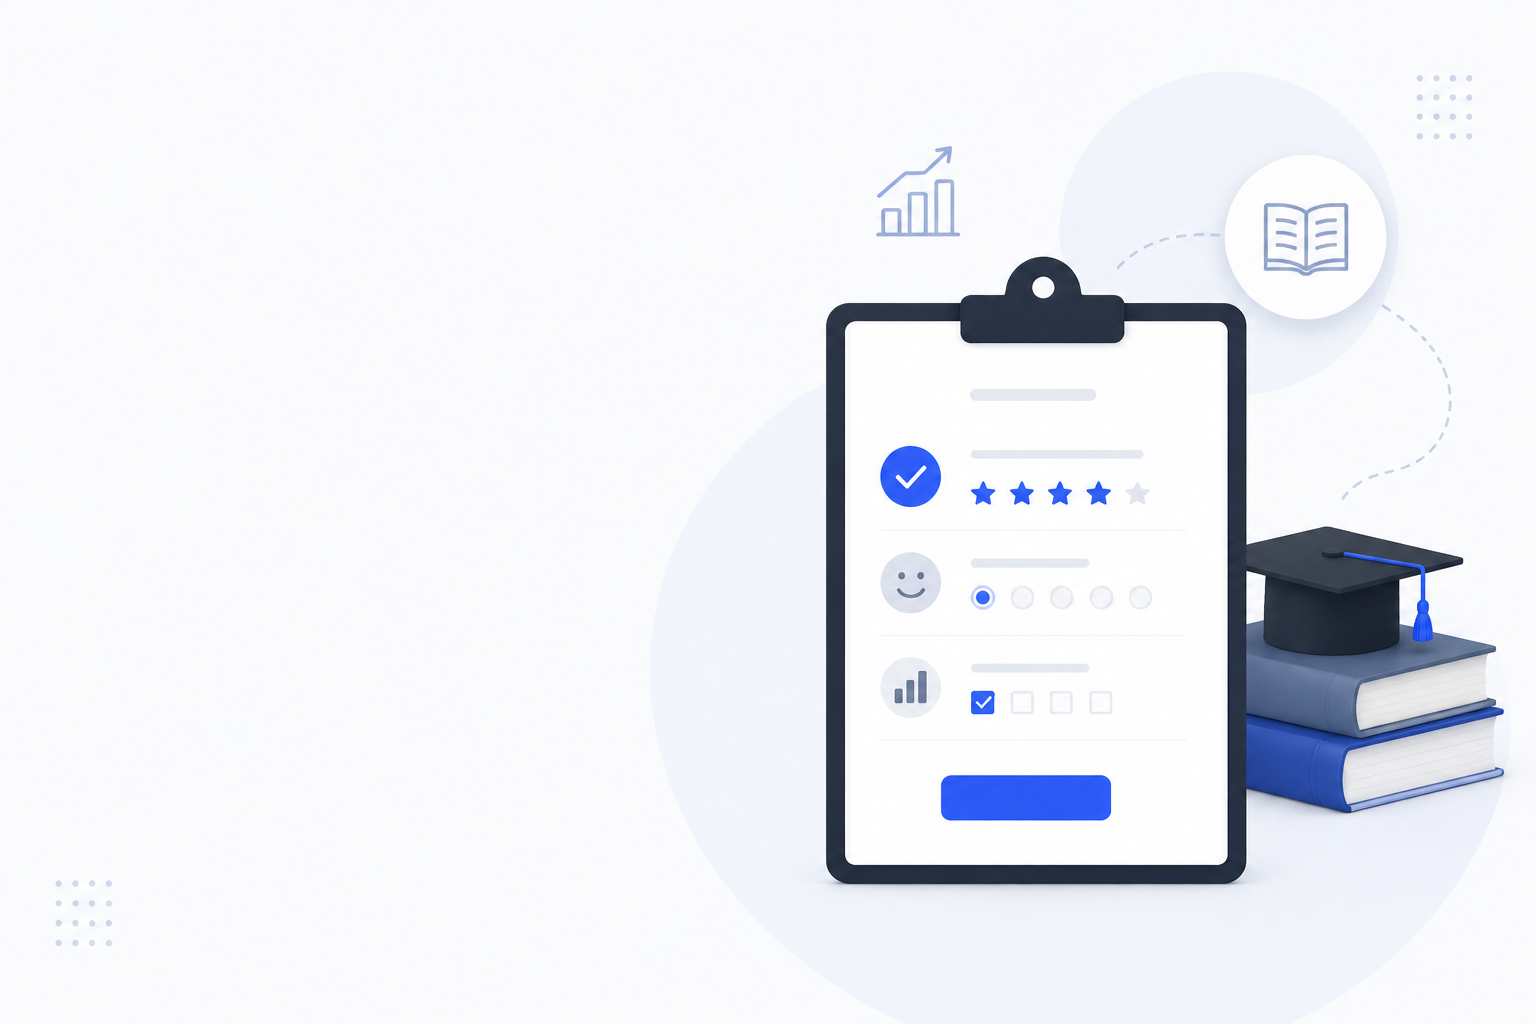
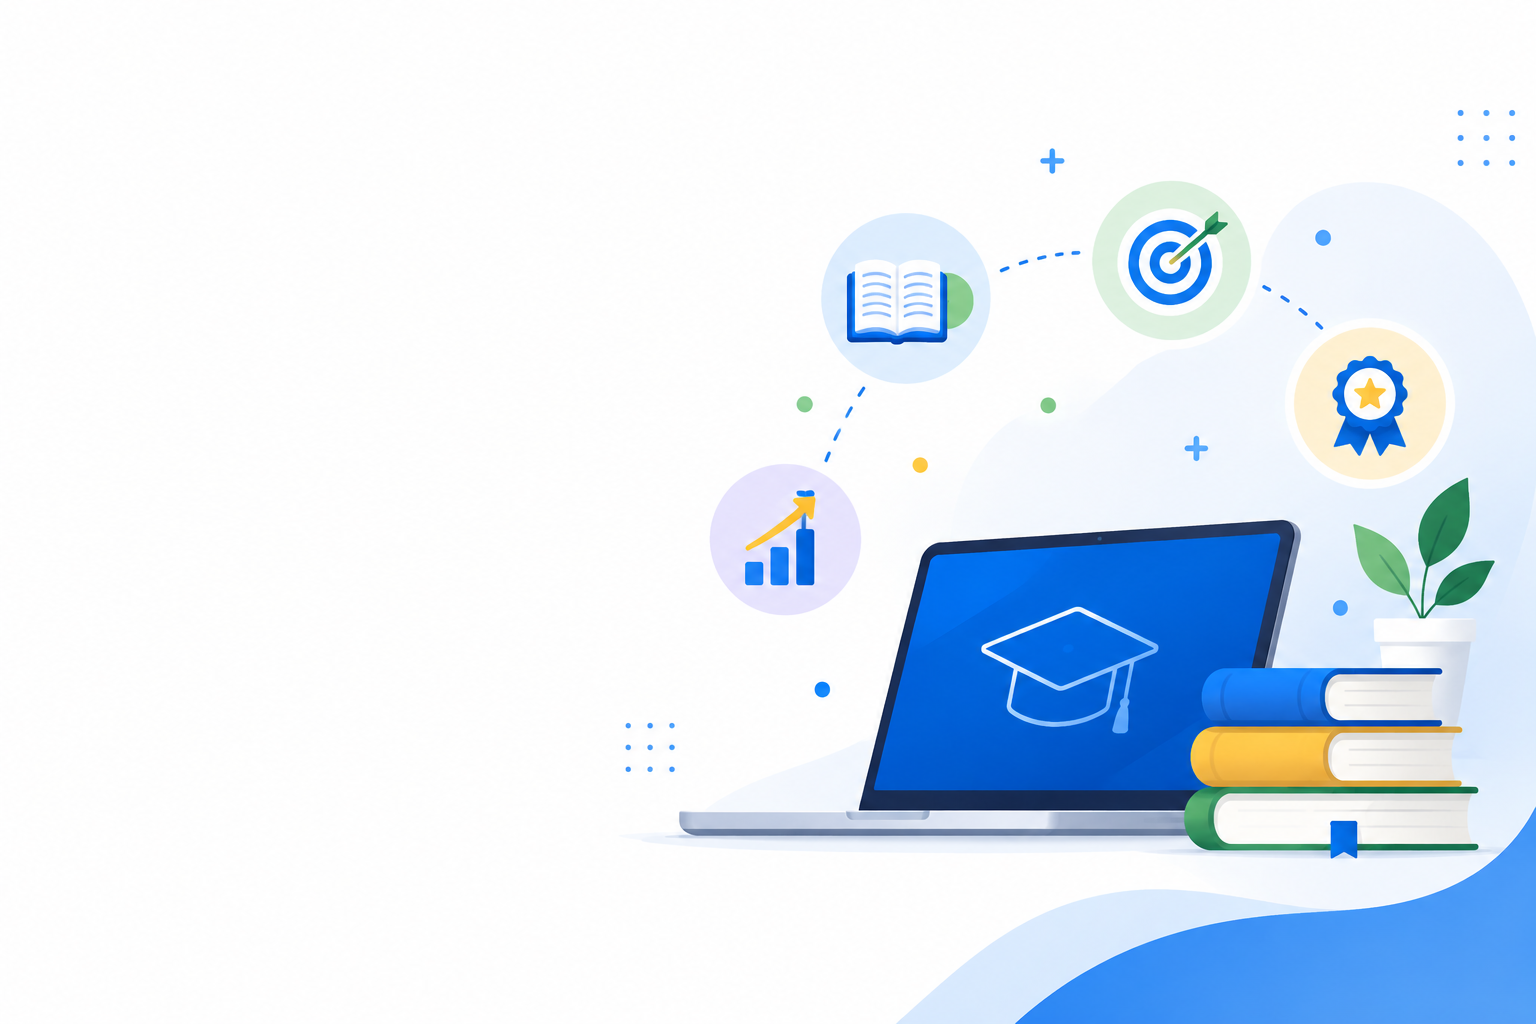
feat(login): giriş ekranı görselini yenile ve her boyutta zeminle kaynaştır
Yeni arka plan görseli eklendi. .login-page artık contain + right center
ile görseli kırpmadan/gerdirmeden sağa yaslıyor; sol boşluk görselin beyaz
zemini (#fefefe) ile dikişsiz kaynaşıyor, kart bu boşlukta duruyor.

diff --git a/frontend/src/styles/login.css b/frontend/src/styles/login.css
@@ -1,7 +1,9 @@
 /*
-  Giriş ekranının stilleri. Tam ekran arka plan, sol-orta hizalı kart,
-  yuvarlatılmış köşeler, belirgin gölge ve görselden alınan renk paletini
-  içerir. Yalnızca sunum (görsel) sorumluluğundadır.
+  Giriş ekranının stilleri. Arka plan görseli kırpılmadan, oranı korunarak
+  (contain) sağa yaslı gösterilir; kalan sol boşluk görselin beyaz zemin
+  rengiyle (#fefefe) dikişsiz kaynaşır ve giriş kartı bu sol boşlukta durur.
+  Ayrıca yuvarlatılmış köşeler, belirgin gölge ve görselden alınan renk
+  paletini içerir. Yalnızca sunum (görsel) sorumluluğundadır.
 */
 
 :root {
@@ -25,15 +27,18 @@ body {
   color: var(--renk-lacivert);
 }
 
-/* Sayfa: arka plan görseli tam görünür (contain, kırpılmaz); görsel oranı
-   ekrandan farklı olduğu için kalan kenar boşlukları, görselin köşe rengiyle
-   (#fafbfd) eşleşen düz zeminle kaynaşır. Kartı sola yaslar, dikeyde ortalar. */
+/* Sayfa: arka plan görseli kırpılmadan ve oranı bozulmadan (contain) gösterilir;
+   sağa yaslanır (right center), böylece geniş ekranlarda kalan boşluk sol tarafta
+   kalır. background-color (#fefefe) görselin beyaz zeminiyle eşleşir; bu sayede
+   soldaki boşluk görselin zeminiyle dikişsiz kaynaşır, boşluk gibi durmaz ve aynı
+   zamanda görsel yüklenene kadarki fallback zemin görevi görür. Kartı sola yaslar,
+   dikeyde ortalar. */
 .login-page {
   min-height: 100vh;
   width: 100%;
-  background-color: #fafbfd;
+  background-color: #fefefe;
   background-size: contain;
-  background-position: center;
+  background-position: right center;
   background-repeat: no-repeat;
   display: flex;
   align-items: center;
